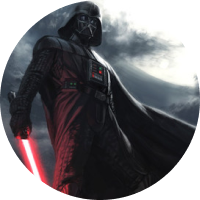
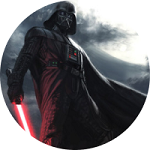
Profile pic is transparent

diff --git a/src/contacts/Profile.vue b/src/contacts/Profile.vue
@@ -25,7 +25,7 @@
           <el-col :span="24"><img src='../assets/profile_pic.png' alt="Profile Picture"></el-col>
         </el-row>
         <el-row>
-          <el-col>First Last</el-col>
+          <el-col style="color: #1BBC9B; font-size: 24px;">{{ userData.firstName + ' ' + userData.lastName}}</el-col>
         </el-row>
         <el-row>
           <el-col>User PID: {{ $route.params.id }}</el-col>
@@ -37,38 +37,30 @@
           <el-col :xs="6" :sm="6" :md="4" :lg="4" :xl="4"><icon class="access-btn" name="ellipsis-h" scale="2.5"></icon></el-col>
         </el-row>
         <el-row class="info-row" type="flex" justify="center">
-          <el-col :span="12">
-            <el-dropdown>
-              <span class="dropdown-link">
-                <icon class="info-icon" name="phone" scale="2.5"></icon>
-                Dropdown List<i class="el-icon-arrow-down el-icon--right"></i>
-              </span>
-              <el-dropdown-menu slot="dropdown">
-                <el-dropdown-item>Action 1</el-dropdown-item>
-                <el-dropdown-item>Action 2</el-dropdown-item>
-                <el-dropdown-item>Action 3</el-dropdown-item>
-                <el-dropdown-item>Action 4</el-dropdown-item>
-                <el-dropdown-item divided>Action 5</el-dropdown-item>
-              </el-dropdown-menu>
-            </el-dropdown>
-          </el-col>
-          <el-col :span="12">Info row 1</el-col>
+          <el-card class="info-card">
+            <div slot="header" class="info-card-header">
+              <span>{{ userData.personal.name }}</span>
+            </div>
+            <div v-for="i in userData.personal.phones" :key="i" class="text item">
+              {{ i }}
+            </div>
+            <div v-for="i in userData.personal.emails" :key="i" class="text item">
+              {{ i }}
+            </div>
+          </el-card>
         </el-row>
         <el-row class="info-row" type="flex" justify="center">
-          <el-col :span="12">Info row 2</el-col>
-          <el-col :span="12">Info row 2</el-col>
-        </el-row>
-        <el-row class="info-row" type="flex" justify="center">
-          <el-col :span="12">Info row 3</el-col>
-          <el-col :span="12">Info row 3</el-col>
-        </el-row>
-        <el-row class="info-row" type="flex" justify="center">
-          <el-col :span="12">Info row 4</el-col>
-          <el-col :span="12">Info row 4</el-col>
-        </el-row>
-        <el-row class="info-row" type="flex" justify="center">
-          <el-col :span="12">Info row 5</el-col>
-          <el-col :span="12">Info row 5</el-col>
+          <el-card class="info-card">
+            <div slot="header" class="info-card-header">
+              <span>{{ userData.work.name }}</span>
+            </div>
+            <div v-for="i in userData.work.phones" :key="i" class="text item">
+              <icon name="phone" ></icon>{{ i }}
+            </div>
+            <div v-for="i in userData.work.emails" :key="i" class="text item">
+              {{ i }}
+            </div>
+          </el-card>
         </el-row>
       </div>
     </el-main>
@@ -86,21 +78,7 @@ export default {
         firstName: 'Luke',
         lastName: 'Skywalker',
         group: 'Heroes',
-        profilePic: require('../assets/profile_pic.png'),
-        personal: {
-          emails: [
-            'lukesky@rebels.com',
-            'lukesky@heroes.com'
-          ],
-          phones: [
-            '333-333-3333',
-            '999-999-9999'
-          ]
-        },
-        work: {
-          emails: ['lukesky@tatooine.com'],
-          phones: ['123-456-7890']
-        }
+        profilePic: require('../assets/profile_pic.png')
       }
     }
   },
@@ -162,18 +140,21 @@ export default {
     cursor: pointer;
   }
   .pro-pic {
-    height: 25vh;
+    height: 10vh;
     margin: 15px;
   }
   .info-row {
     padding: 10px;
     border: 5px;
   }
-  .dropdown-link {
-    cursor: pointer;
-    vertical-align: top;
-  }
   .info-icon {
+    color: #1BBC9B;
+  }
+  .info-card {
+    text-align: left;
+    width: 100%;
+  }
+  .info-card-header {
     color: #1BBC9B;
   }
 </style>
